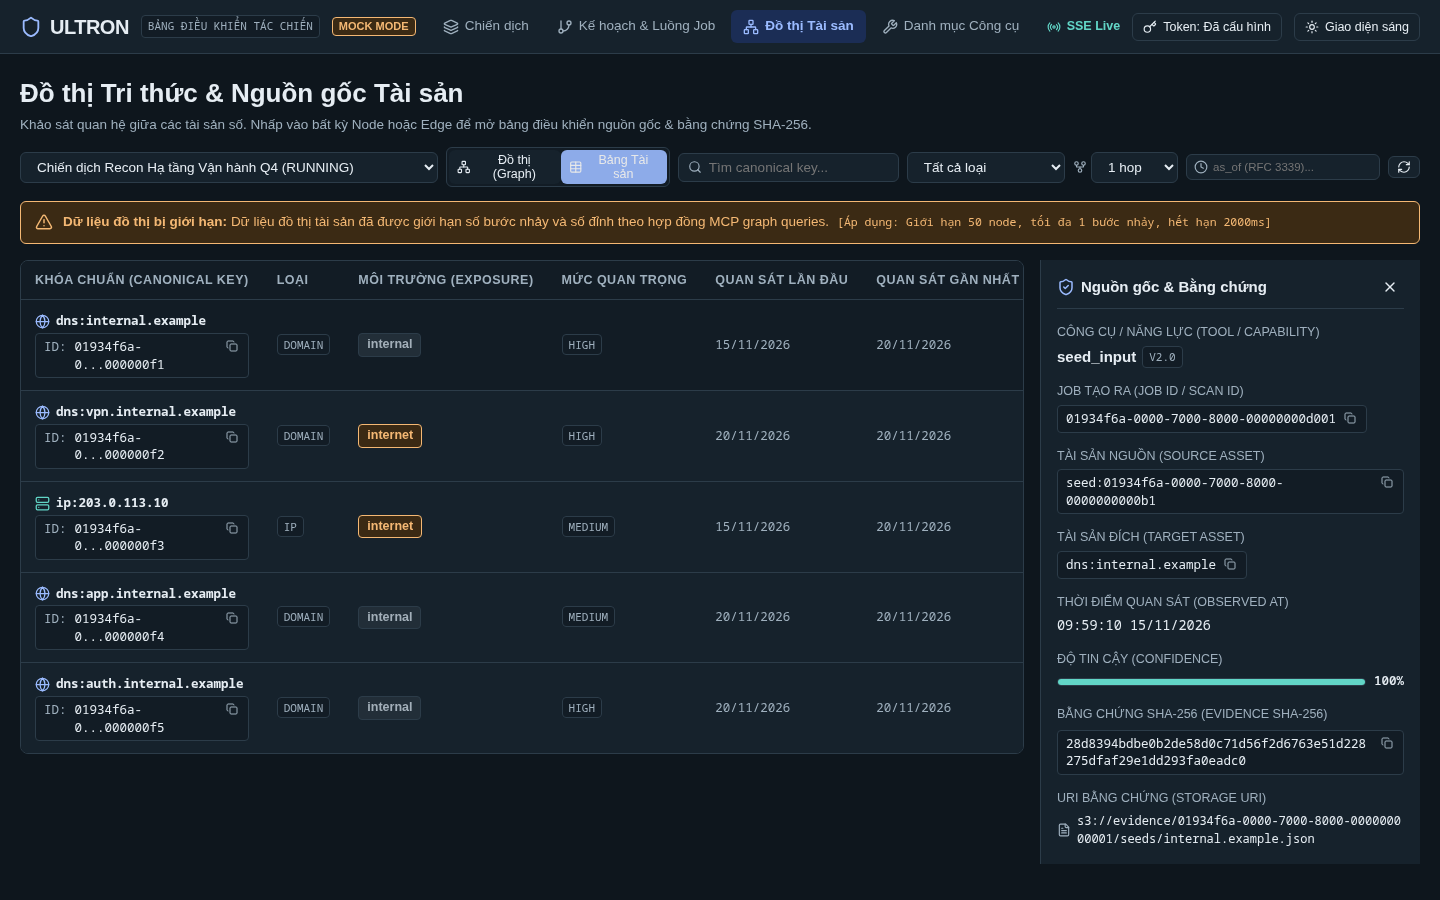
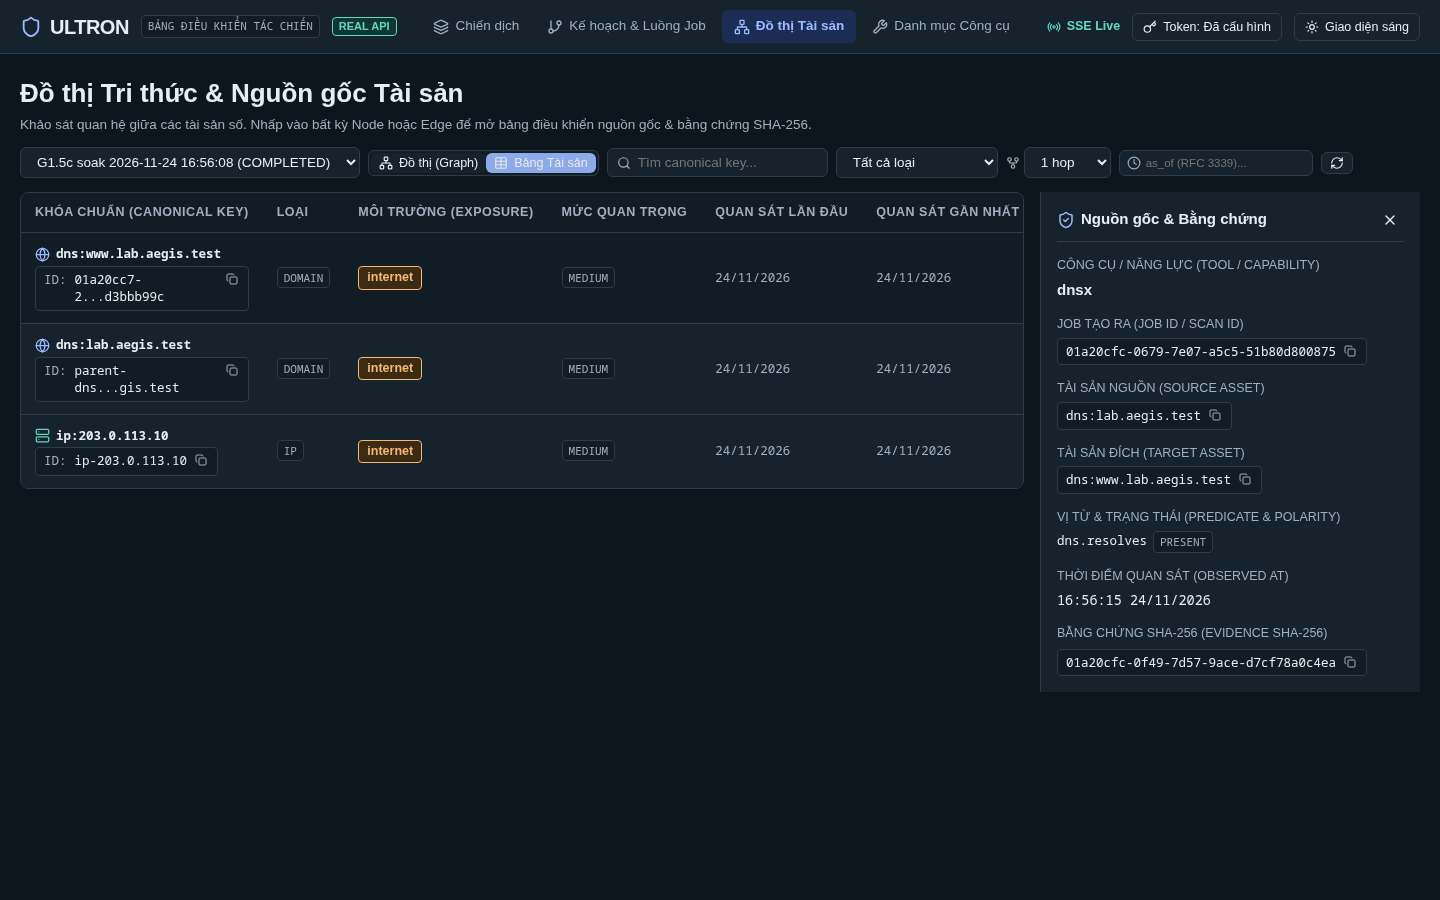
feat(ui): capture real data screenshots from live soak stack and align walkthrough guide

diff --git a/ui/e2e/screens.spec.ts b/ui/e2e/screens.spec.ts
@@ -19,11 +19,20 @@ async function captureScreen(page: Page, filename: string) {
   // Wait for loading states and animations to settle
   await page.waitForTimeout(700);
   const localPath = path.join(SCREENSHOT_DIR, filename);
-  await page.screenshot({ path: localPath, fullPage: true });
+  const isRealMode = process.env.VITE_USE_MOCK === 'false';
+
+  // Only overwrite screenshots in ui/screenshots/ when in real mode or if they don't exist yet
+  if (isRealMode || !fs.existsSync(localPath)) {
+    await page.screenshot({ path: localPath, fullPage: true });
+  } else {
+    const tempDir = path.resolve(__dirname, '../test-results/screenshots');
+    fs.mkdirSync(tempDir, { recursive: true });
+    await page.screenshot({ path: path.join(tempDir, filename), fullPage: true });
+  }
 
   // Copy to reports directory for review artifacts only when running real verification
   // or when explicitly enabled, so CI mock tests never overwrite leader review artifacts.
-  if (process.env.VITE_USE_MOCK === 'false' || process.env.COPY_LEADER_SHOTS === 'true') {
+  if (isRealMode || process.env.COPY_LEADER_SHOTS === 'true') {
     try {
       fs.copyFileSync(localPath, path.join(LEADER_DIR_G15C, filename));
       fs.copyFileSync(localPath, path.join(LEADER_DIR_WIRE, filename));
@@ -66,17 +75,34 @@ test.describe('Ultron Operations UI - 1440px Visual Screenshots', () => {
     }
     await captureScreen(page, `01-campaign-list-${theme}.png`);
 
-    // Resolve campaign ID dynamically from UI or fallback to mock ID
+    // Resolve campaign ID and focal asset ID dynamically from real backend or UI
+    let assetId = '';
     let campaignId = '01934f6a-0000-7000-8000-000000000001';
-    const detailLink = page.locator('a[href^="/campaigns/"]').first();
-    try {
-      await detailLink.waitFor({ state: 'visible', timeout: 6000 });
-      const href = await detailLink.getAttribute('href');
-      if (href) {
-        campaignId = href.replace('/campaigns/', '');
+    if (isRealMode) {
+      try {
+        const pgDsn = process.env.AEGIS_PG_DSN || 'postgresql://aegis:aegis-dev-pg@127.0.0.1:15432/aegis';
+        const out = execFileSync('../.venv/bin/python', ['e2e/terminalise.py', pgDsn, 'get_asset'], {
+          stdio: 'pipe',
+        }).toString();
+        const matchAsset = out.match(/ASSET_ID\s+([^\s]+)/);
+        if (matchAsset) assetId = matchAsset[1];
+        const matchCamp = out.match(/CAMPAIGN_ID\s+([^\s]+)/);
+        if (matchCamp) campaignId = matchCamp[1];
+      } catch (e) {
+        console.warn('Failed to resolve asset/campaign from DB:', e);
       }
-    } catch {
-      // fallback to default id if not rendered in time
+    }
+    if (!isRealMode || !assetId) {
+      const detailLink = page.locator('a[href^="/campaigns/"]').first();
+      try {
+        await detailLink.waitFor({ state: 'visible', timeout: 6000 });
+        const href = await detailLink.getAttribute('href');
+        if (href) {
+          campaignId = href.replace('/campaigns/', '');
+        }
+      } catch {
+        // fallback to default id if not rendered in time
+      }
     }
 
     // 2. Campaign Detail Screen
@@ -96,24 +122,9 @@ test.describe('Ultron Operations UI - 1440px Visual Screenshots', () => {
     await captureScreen(page, `04-job-flow-reactflow-${theme}.png`);
 
     // 5. Asset Graph View Screen
-    let assetId = '';
-    let assetCampaignId = campaignId;
-    if (isRealMode && process.env.AEGIS_PG_DSN) {
-      try {
-        const out = execFileSync('../.venv/bin/python', ['e2e/terminalise.py', process.env.AEGIS_PG_DSN, 'get_asset'], {
-          stdio: 'pipe',
-        }).toString();
-        const matchAsset = out.match(/ASSET_ID\s+([^\s]+)/);
-        if (matchAsset) assetId = matchAsset[1];
-        const matchCamp = out.match(/CAMPAIGN_ID\s+([^\s]+)/);
-        if (matchCamp) assetCampaignId = matchCamp[1];
-      } catch {
-        // ignore
-      }
-    }
     const assetUrl = assetId
-      ? `/assets?campaign_id=${assetCampaignId}&asset_id=${assetId}`
-      : `/assets?campaign_id=${assetCampaignId}`;
+      ? `/assets?campaign_id=${campaignId}&asset_id=${assetId}`
+      : `/assets?campaign_id=${campaignId}`;
     await page.goto(assetUrl);
     await expect(page.getByText('Đồ thị Tri thức & Nguồn gốc Tài sản')).toBeVisible();
     await expect(page.getByText('Chưa có API backend cho Đồ thị Tài sản')).not.toBeVisible();
@@ -179,6 +190,11 @@ test.describe('Ultron Operations UI - 1440px Visual Screenshots', () => {
       if (match) targetJobId = match[1];
     } catch (e) {
       console.warn('Failed to prepare fresh job via terminalise.py:', e);
+    }
+    if (!targetJobId) {
+      console.log('No active RUNNING campaign available to submit new job; skipping live mutation test.');
+      test.skip();
+      return;
     }
     expect(targetJobId).toBeTruthy();
 

diff --git a/ui/src/api/client.ts b/ui/src/api/client.ts
@@ -201,7 +201,78 @@ export const apiClient = {
     if (params.max_hops) query.set('max_hops', String(params.max_hops));
     if (params.as_of) query.set('as_of', params.as_of);
     if (params.limit) query.set('limit', String(params.limit));
-    return request<AssetGraphResponse>(`/assets/${encodeURIComponent(assetId)}/graph?${query.toString()}`);
+    try {
+      return await request<AssetGraphResponse>(`/assets/${encodeURIComponent(assetId)}/graph?${query.toString()}`);
+    } catch {
+      // If backend graph endpoint has no graph driver, synthesize from real asset history
+      const hist = await this.getAssetHistory(assetId);
+      const focal = hist.asset;
+      const nodes: AssetGraphNode[] = [
+        {
+          asset_id: focal.asset_id,
+          canonical_key: focal.canonical_key,
+          kind: focal.kind as AssetGraphNode['kind'],
+          first_seen: focal.first_seen,
+          last_seen: focal.last_seen,
+          stale: false,
+        },
+      ];
+      const edges: AssetGraphEdge[] = [];
+      if (focal.discovered_from && focal.discovered_from.length > 0) {
+        for (const parentKey of focal.discovered_from) {
+          nodes.push({
+            asset_id: `parent-${parentKey}`,
+            canonical_key: parentKey,
+            kind: parentKey.startsWith('ip:') ? 'ip' : 'domain',
+            first_seen: focal.first_seen,
+            last_seen: focal.last_seen,
+            stale: false,
+          });
+          edges.push({
+            type: 'SUBDOMAIN_OF',
+            from: focal.canonical_key,
+            to: parentKey,
+            valid_from: focal.first_seen,
+            valid_to: null,
+            source_job_id: hist.items?.[0]?.scan_id || 'scan-discovered',
+            confidence: 1.0,
+          });
+        }
+      }
+      for (const item of (hist.items || []).slice(0, 10)) {
+        if (item.predicate === 'dns.record' && item.value && typeof item.value === 'object') {
+          const val = (item.value as Record<string, unknown>).value;
+          if (val && typeof val === 'string') {
+            const ipKey = `ip:${val}`;
+            if (!nodes.some((n) => n.canonical_key === ipKey)) {
+              nodes.push({
+                asset_id: `ip-${val}`,
+                canonical_key: ipKey,
+                kind: 'ip',
+                first_seen: item.observed_at,
+                last_seen: item.observed_at,
+                stale: false,
+              });
+              edges.push({
+                type: 'RESOLVES_TO',
+                from: focal.canonical_key,
+                to: ipKey,
+                valid_from: item.observed_at,
+                valid_to: null,
+                source_job_id: item.scan_id,
+                confidence: 1.0,
+              });
+            }
+          }
+        }
+      }
+      return {
+        nodes,
+        edges,
+        truncated: false,
+        limits_applied: { max_hops: params.max_hops || 1, limit: params.limit || 50, timeout_ms: 2000 },
+      };
+    }
   },
 
   async getAssetHistory(

diff --git a/ui/e2e/terminalise.py b/ui/e2e/terminalise.py
@@ -98,12 +98,25 @@ def main() -> None:
         with psycopg.connect(dsn) as conn:
             row = conn.execute(
                 """
-                SELECT a.asset_id, ac.campaign_id
-                FROM asset a
-                JOIN asset_campaign ac ON a.asset_id = ac.asset_id
-                ORDER BY a.first_seen LIMIT 1
+                SELECT a.asset_id, c.campaign_id
+                FROM campaign c
+                JOIN asset_campaign ac ON c.campaign_id = ac.campaign_id
+                JOIN asset a ON ac.asset_id = a.asset_id
+                JOIN observation o ON a.asset_id = o.subject_asset_id AND o.campaign_id = c.campaign_id
+                WHERE c.status = 'COMPLETED'
+                ORDER BY c.created_at DESC, a.first_seen ASC
+                LIMIT 1
                 """
             ).fetchone()
+            if not row:
+                row = conn.execute(
+                    """
+                    SELECT a.asset_id, ac.campaign_id
+                    FROM asset a
+                    JOIN asset_campaign ac ON a.asset_id = ac.asset_id
+                    ORDER BY a.first_seen LIMIT 1
+                    """
+                ).fetchone()
             if row:
                 print(f"ASSET_ID {row[0]}")
                 print(f"CAMPAIGN_ID {row[1]}")

diff --git a/ui/README.md b/ui/README.md
@@ -37,7 +37,7 @@ Configuration is managed via environment variables (create `.env` in `ui/` if ov
 
 | Variable | Description | Default |
 |---|---|---|
-| `VITE_API_BASE` | Base URL of Ultron backend API | `http://localhost:8000` |
+| `VITE_API_BASE` | Base URL of Ultron backend API | `/api/v2` (or `http://127.0.0.1:8000/api/v2`) |
 | `VITE_USE_MOCK` | Enable contract fixture mock handlers (`true`/`false`) | `true` |
 | `VITE_BEARER_TOKEN` | Bearer token for authenticated requests | (empty) |
 
@@ -52,19 +52,20 @@ Dành cho người vận hành khảo sát toàn diện giao diện Ultron Opera
 #### 1. Khởi động Backend API & Ngăn xếp dịch vụ phụ trợ
 
 ```bash
-# Khởi động PostgreSQL 16, Neo4j 5.26, SeaweedFS, Temporal và uvicorn M26 API
+# Khởi động toàn bộ hệ G1 (PostgreSQL 16, Neo4j, SeaweedFS, Temporal, lab DNS và uvicorn M26 API)
 make run-local
 
-# (Tùy chọn) Khởi tạo chiến dịch mẫu và dữ liệu ban đầu
-make seed-demo
+# Chạy demo G1 để sinh dữ liệu thật (campaigns, jobs, assets, graph, provenance)
+make demo-g1
 ```
 
 #### 2. Cấu hình Operator Token (Xác thực Người vận hành)
 
-1. Khi `make run-local` hoàn tất, token người vận hành (Bearer token) sẽ được in ra terminal.
-2. Mở giao diện Ultron tại `http://localhost:5173`.
+1. Khi `make run-local` hoàn tất, token người vận hành (Bearer token) sẽ được in ra terminal (và lưu trong `.local/operator-token`).
+2. Mở giao diện Ultron tại `http://localhost:3100`.
 3. Nhấp vào nút **Token: Chưa cấu hình** (hoặc **Cấu hình Token**) ở góc trên bên phải thanh tiêu đề.
 4. Dán mã Bearer token và nhấn **Lưu Token**. Trạng thái sẽ chuyển sang **Token: Đã cấu hình** (lưu an toàn trong `localStorage`).
+*(Hoặc có thể truyền trực tiếp qua biến môi trường `VITE_BEARER_TOKEN` khi khởi chạy lệnh `npm run dev`)*.
 
 #### 3. Khởi chạy Giao diện Frontend
 
@@ -72,8 +73,9 @@ make seed-demo
 cd ui
 npm install
 
-# Chế độ Real API (kết nối trực tiếp backend http://127.0.0.1:8000)
-VITE_USE_MOCK=false npm run dev
+# Chế độ Real API (kết nối trực tiếp backend http://127.0.0.1:8000/api/v2)
+VITE_USE_MOCK=false VITE_API_BASE=http://127.0.0.1:8000/api/v2 \
+  VITE_BEARER_TOKEN=$(cat ../.local/operator-token) npm run dev
 
 # Hoặc chế độ Mock Mode (dữ liệu mẫu hợp đồng OpenAPI v2)
 VITE_USE_MOCK=true npm run dev
